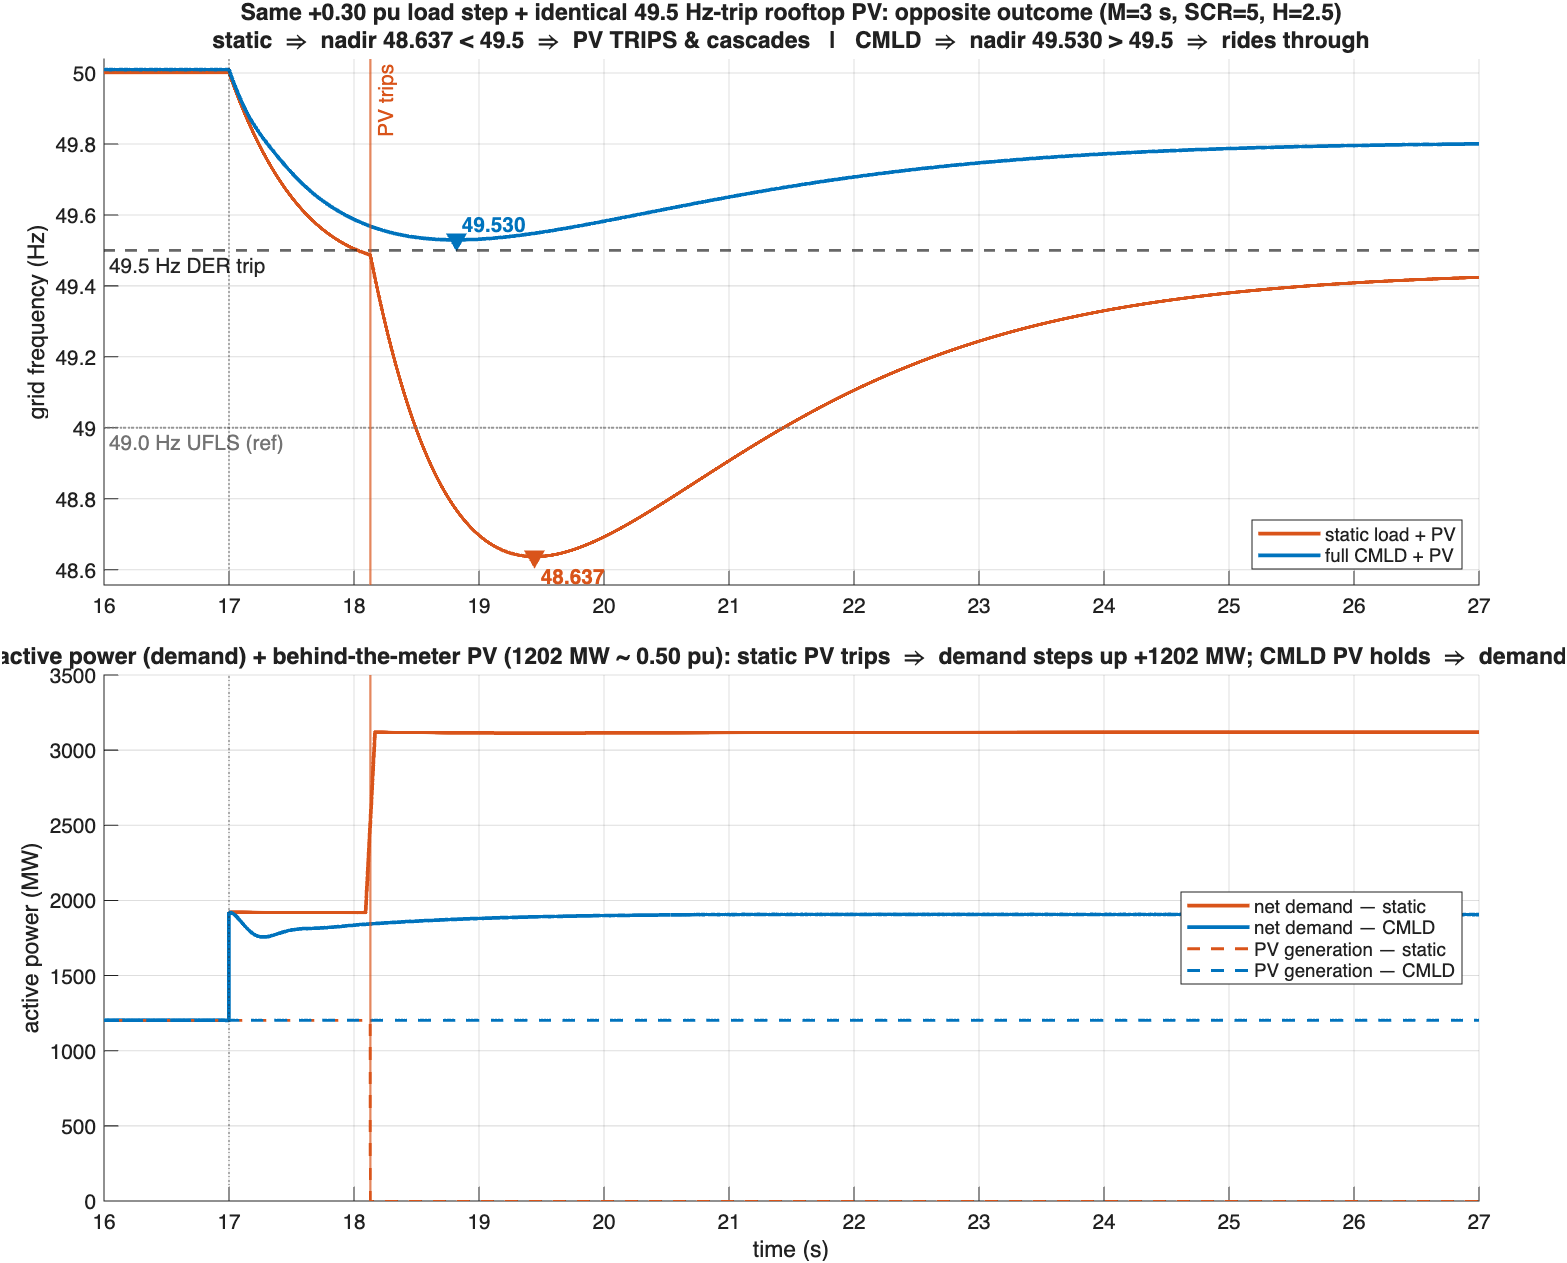
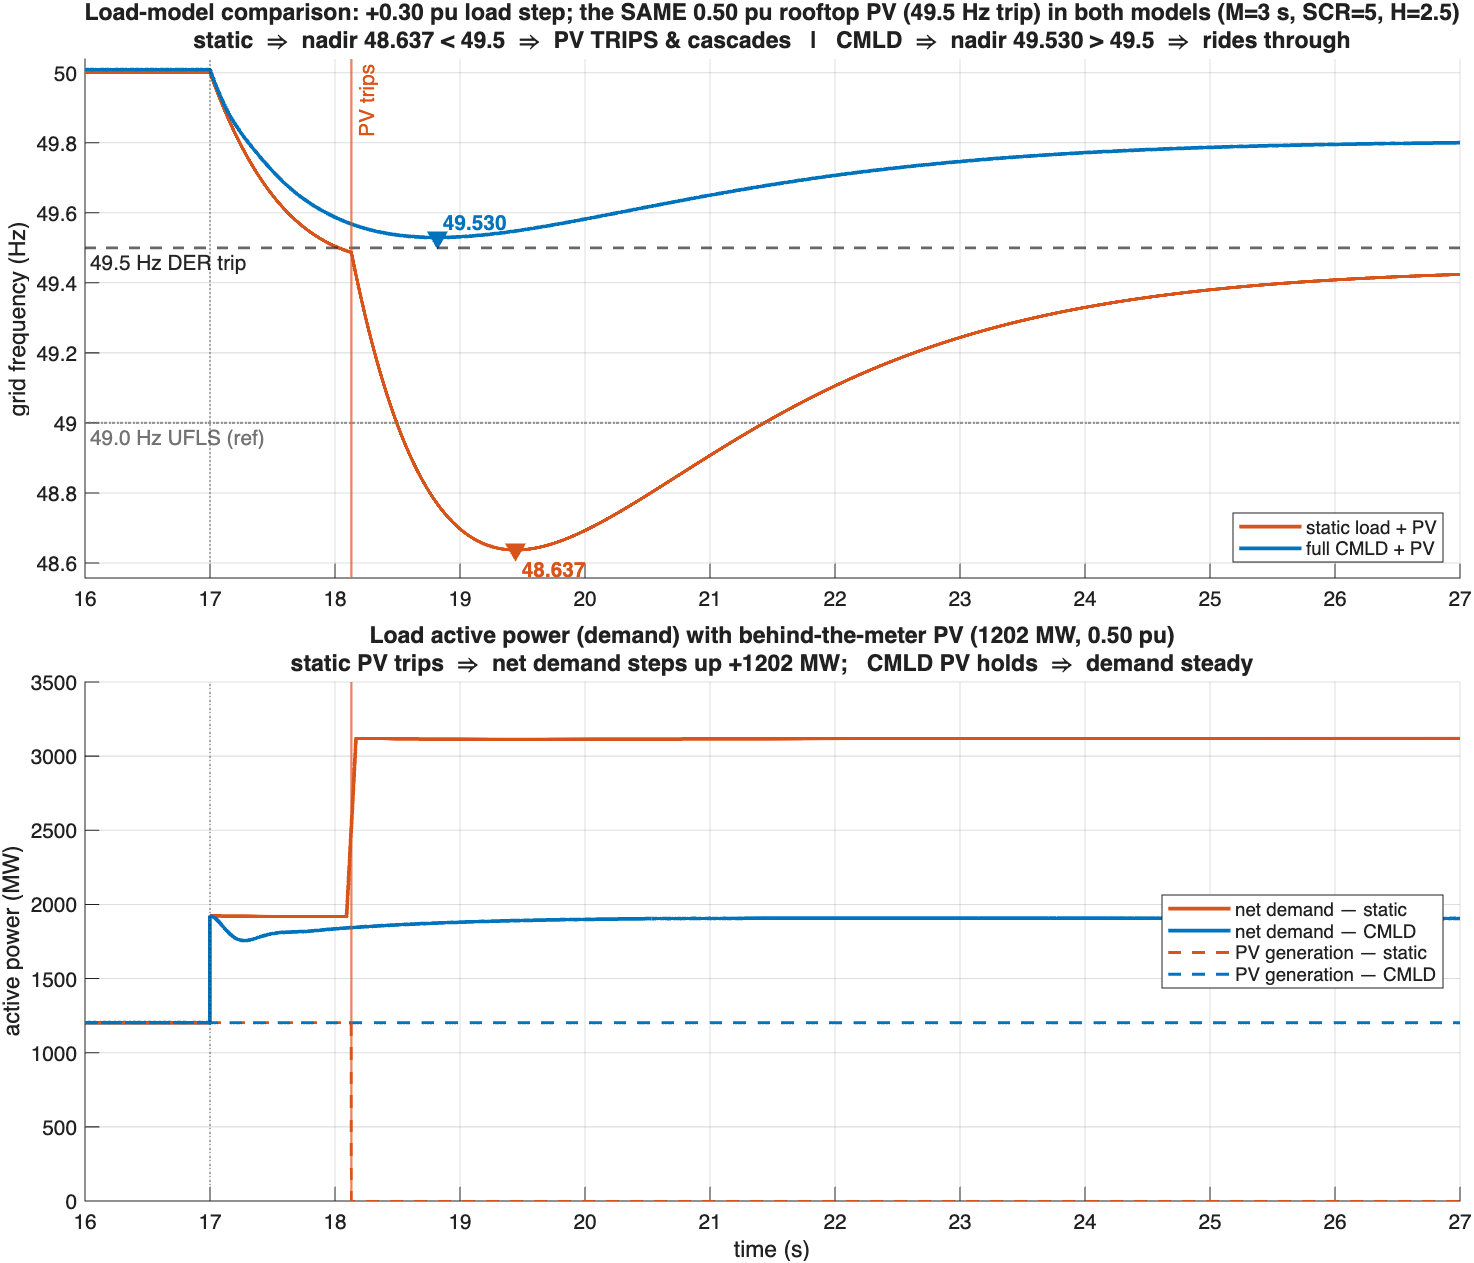
pv_trip: fix figure captions + add dP=0.30 / P_pv=0.40 chart
Panel-2 caption was overflowing (now 2 lines). Panel-1 caption reworded: 'the
SAME 0.40 pu rooftop PV in both models' -- previously read as if the PV were
identical to the 0.30 pu load step. Regenerated phase2 (0.25 pu) + SA headline
(0.50 pu) with the fixed captions, and added the requested single chart at
dP=0.30 / P_pv=0.40 (static nadir 48.812, CMLD 49.528).

diff --git a/studies/pv_trip/pv_figure2.m b/studies/pv_trip/pv_figure2.m
@@ -46,9 +46,9 @@ end
 xlim(ax1,[t0 td+10]);
 ylo = min([ms.nadir mc.nadir f_ufls])-0.08; ylim(ax1,[ylo max([stat.f(:);cmld.f(:)])+0.03]);
 ylabel(ax1,'grid frequency (Hz)'); legend(ax1,'Location','southeast');
-title(ax1, sprintf(['Same +%.2f pu load step + identical 49.5 Hz-trip rooftop PV: opposite outcome (M=%g s, SCR=%g, H=2.5)\n' ...
+title(ax1, sprintf(['Load-model comparison: +%.2f pu load step; the SAME %.2f pu rooftop PV (49.5 Hz trip) in both models (M=%g s, SCR=%g, H=2.5)\n' ...
     'static \\Rightarrow nadir %.3f < 49.5 \\Rightarrow PV TRIPS & cascades   |   CMLD \\Rightarrow nadir %.3f > 49.5 \\Rightarrow rides through'], ...
-    dp, Mg, SCRg, ms.nadir, mc.nadir));
+    dp, P_pv/Pw, Mg, SCRg, ms.nadir, mc.nadir));
 
 % ---- Panel 2: load active power (demand) + behind-the-meter PV generation ----
 ax2 = nexttile(tl); hold(ax2,'on'); grid(ax2,'on'); set(ax2,'Color','w','GridAlpha',0.15);
@@ -65,8 +65,8 @@ if stat.tripped
 end
 xlim(ax2,[t0 td+10]);
 xlabel(ax2,'time (s)'); ylabel(ax2,'active power (MW)'); legend(ax2,'Location','east');
-title(ax2, sprintf(['Load active power (demand) + behind-the-meter PV (%.0f MW ~ %.2f pu): ' ...
-    'static PV trips \\Rightarrow demand steps up +%.0f MW; CMLD PV holds \\Rightarrow demand steady'], ...
+title(ax2, sprintf(['Load active power (demand) with behind-the-meter PV (%.0f MW, %.2f pu)\n' ...
+    'static PV trips \\Rightarrow net demand steps up +%.0f MW;   CMLD PV holds \\Rightarrow demand steady'], ...
     P_pv/1e6, P_pv/Pw, P_pv/1e6));
 
 out = fullfile(figdir, sprintf('pv_trip_%s.png', tag));